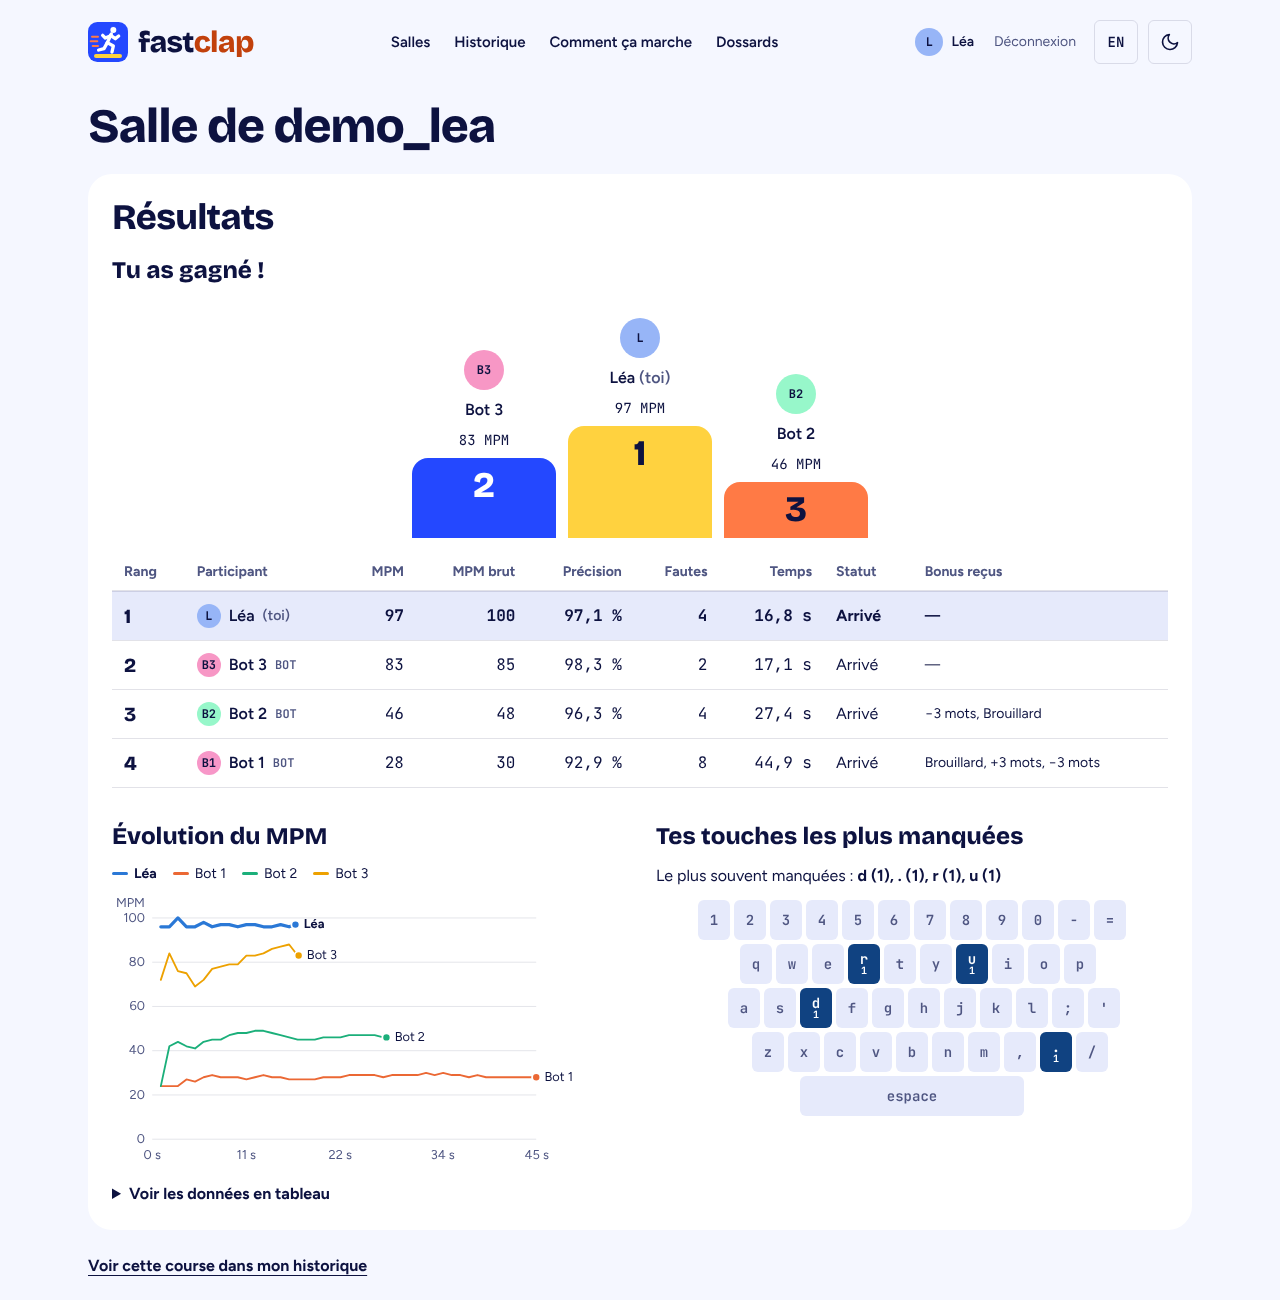
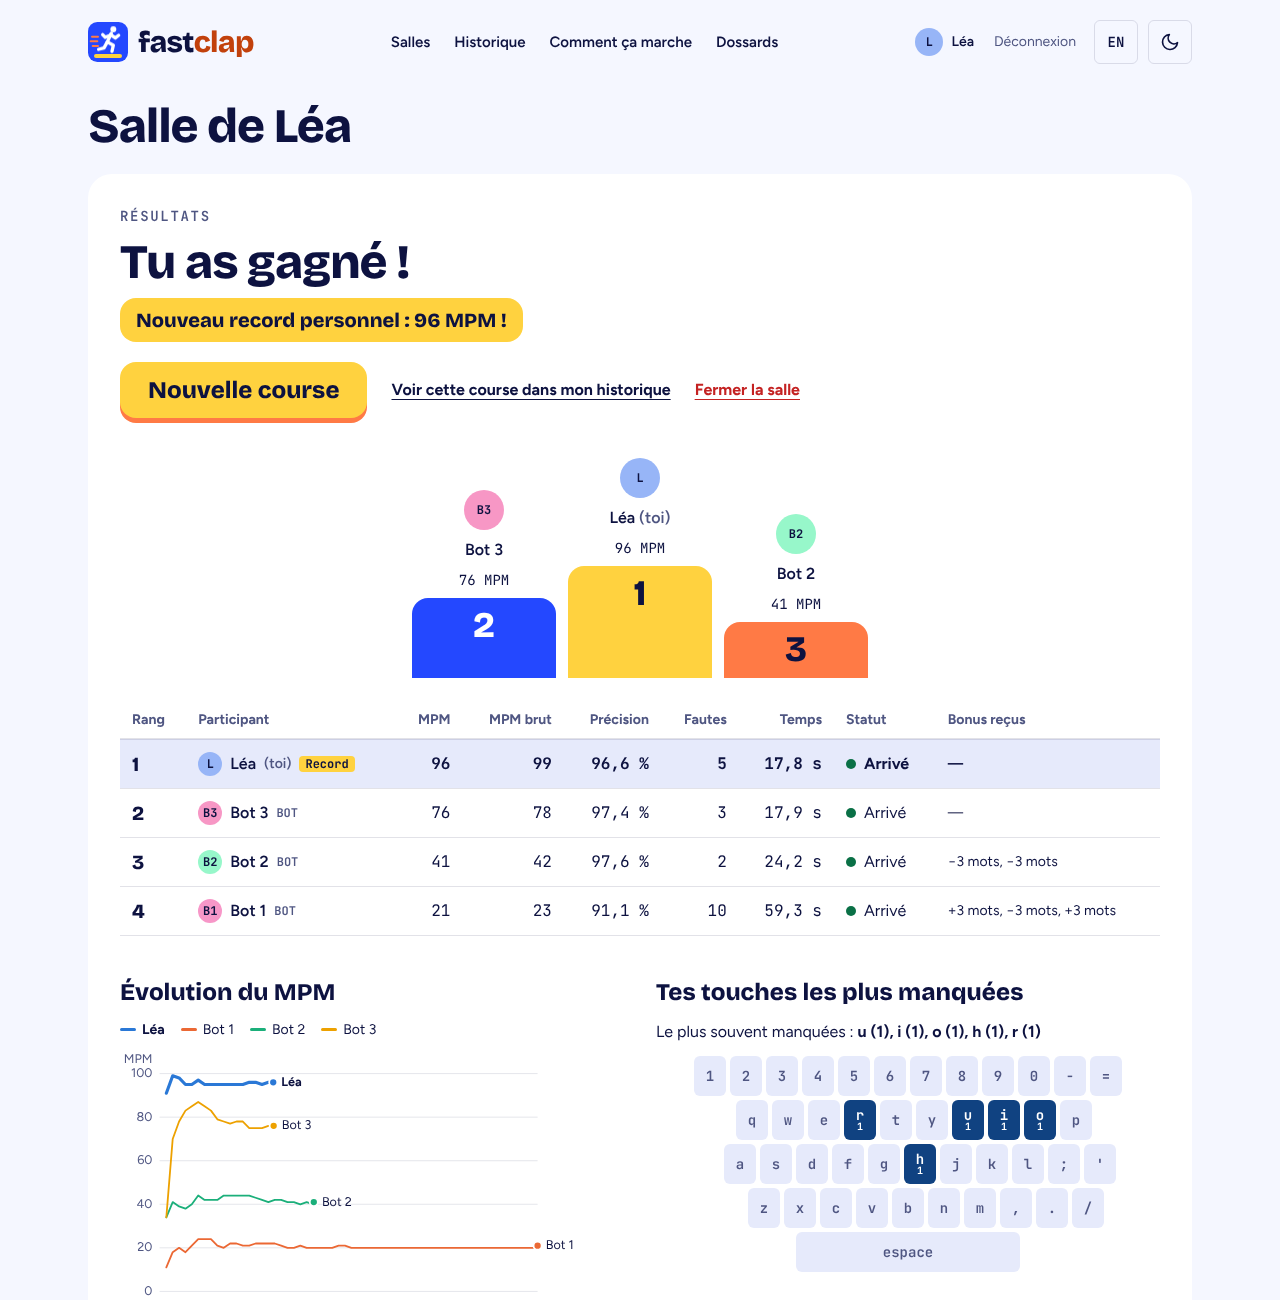
Documentation du retravail UI/UX, captures avant et après

diff --git a/docs/UI-UX.md b/docs/UI-UX.md
@@ -1,0 +1,108 @@
+# Retravail UI/UX
+
+Passe de design faite après le cours sur le design d'interface, sur cinq
+thèmes : planifier un design, structure et espacement, hiérarchie, design du
+texte, couleurs. Le nom, le logo, la palette et les typographies de la
+[démarche créative](DEMARCHE-CREATIVE.md) ne changent pas : on change la façon
+de les utiliser, pas l'identité.
+
+## 1. Planifier un design : partir de la fonction
+
+Une page se conçoit autour de ce que la personne vient y faire, et elle ne
+promet que ce que le site fait vraiment.
+
+- **Dossards honnêtes.** La section « Collectionne les dossards » annonçait
+  des récompenses (série de victoires, 10 courses sans faute) qui n'existent
+  pas dans le jeu. Les dossards penchés restent (direction artistique), mais
+  ils montrent maintenant ce que le profil garde vraiment : record, précision
+  moyenne, victoires (AUTH-06, RES-04).
+- **États vides utiles.** Un état vide dit ce qui se passe et offre l'action
+  qui le règle. « Personne sur la ligne de départ » devient un titre, une
+  phrase et un bouton « Créer une salle ». Sur « Faire une course », l'invité
+  peut maintenant entrer un code ou se connecter, au lieu d'un cul-de-sac.
+- **Unité cohérente.** La course d'exemple de l'accueil affichait « WPM » en
+  français ; elle affiche « MPM », comme le reste du site (I18N-01).
+
+| Avant                               | Après                               |
+| ----------------------------------- | ----------------------------------- |
+| ![Avant](images/ui-ux/go-avant.png) | ![Après](images/ui-ux/go-apres.png) |
+
+## 2. Hiérarchie : une action principale par écran
+
+Tout n'a pas la même importance. L'action principale est la plus visible ;
+les actions secondaires sont des liens ; les actions destructrices sont en
+retrait et demandent une confirmation.
+
+- **Résultats.** Le verdict (« Tu as gagné ! », « 3e sur 4 ») est le vrai
+  titre, en grand ; « Résultats » devient une petite étiquette. Les actions
+  sont juste à côté, sans faire défiler : « Nouvelle course » (bouton
+  principal), « Voir dans l'historique » (lien), « Fermer la salle » (lien
+  rouge, avec confirmation). Avant, elles étaient sous les graphiques.
+- **Salle d'attente.** « Lancer la course » était au milieu de la colonne de
+  droite, après les participants et les bots. Il est maintenant sous le code,
+  dans une colonne qui reste visible quand on fait défiler la configuration.
+- **Retirer un bot, expulser.** Ces boutons étaient rouges sur chaque ligne et
+  attiraient l'œil plus que les noms. Ils sont gris et deviennent rouges au
+  survol.
+
+| Avant                                      | Après                                      |
+| ------------------------------------------ | ------------------------------------------ |
+| ![Avant](images/ui-ux/resultats-avant.png) | ![Après](images/ui-ux/resultats-apres.png) |
+
+## 3. Structure et espacement : regrouper ce qui va ensemble
+
+- **Page des salles.** Le code, les filtres, la liste et la création étaient
+  empilés les uns sous les autres. La liste est le contenu principal, à
+  gauche ; « Rejoindre avec un code » et « Créer une salle » sont deux cartes
+  à droite, chacune avec son titre.
+- **Salle d'attente.** La colonne du code laissait un grand vide sous elle ;
+  elle porte maintenant le départ, et reste en place (`sticky`) pendant le
+  défilement.
+- **Moins de bordure, plus d'espace.** Les cartes gardent leurs coins arrondis
+  et leurs fonds clairs ; l'espace intérieur augmente sur grand écran
+  (`sm:p-8`) au lieu d'ajouter des traits.
+
+| Avant                                          | Après                                          |
+| ---------------------------------------------- | ---------------------------------------------- |
+| ![Avant](images/ui-ux/salles-avant.png)        | ![Après](images/ui-ux/salles-apres.png)        |
+| ![Avant](images/ui-ux/salle-attente-avant.png) | ![Après](images/ui-ux/salle-attente-apres.png) |
+
+## 4. Design du texte : une échelle, et des titres qui tiennent
+
+- **Échelle des titres.** Les titres de page suivent la même échelle :
+  `text-4xl` sur téléphone, `text-5xl` dès 640 px (la page des salles et la
+  page introuvable montent jusqu'à `text-6xl`). Avant, chaque page avait sa taille, et les
+  titres en `text-5xl` débordaient à 360 px : « Collectionne » sortait de
+  l'écran.
+- **`text-balance`** sur les titres : les lignes ont une longueur proche, sans
+  mot seul sur la dernière ligne.
+- **Longueur de ligne.** Les paragraphes restent sous 40 em environ, pour une
+  lecture confortable.
+- **Avatars.** L'initiale de l'avatar du profil était en très petit dans un
+  grand rond ; sa taille suit maintenant celle du rond.
+- **Nom affiché.** Le titre d'une salle utilise le pseudonyme d'affichage
+  (« Salle de Léa ») plutôt que le nom d'utilisateur (« Salle de demo_lea »).
+
+| Avant                                           | Après                                           |
+| ----------------------------------------------- | ----------------------------------------------- |
+| ![Avant](images/ui-ux/mobile-accueil-avant.png) | ![Après](images/ui-ux/mobile-accueil-apres.png) |
+
+## 5. Couleurs : un sens par couleur, jamais seule
+
+La palette ne change pas ; chaque couleur garde un seul rôle.
+
+| Couleur | Rôle                                                                |
+| ------- | ------------------------------------------------------------------- |
+| Jaune   | L'action principale de l'écran (un seul bouton jaune à la fois)     |
+| Bleu    | Actions secondaires pleines (« Créer une salle »), sélection, piste |
+| Vert    | Juste : lettre correcte, coureur arrivé                             |
+| Rouge   | Faute, abandon, action destructrice                                 |
+| Gris    | Texte secondaire et actions en retrait                              |
+
+- **Statuts.** Dans les résultats et l'historique, chaque statut a une
+  pastille : vert « Arrivé », jaune « Temps écoulé », rouge « Abandon ». Le
+  mot reste écrit à côté : la couleur n'est jamais seule à porter
+  l'information (A11Y-01).
+- **Contraste.** Toutes les pages repassent l'audit axe (WCAG 2.1 AA) dans les
+  deux thèmes, et le test d'affichage à 360 px (`e2e/a11y.spec.ts`,
+  `e2e/mobile.spec.ts`).

diff --git a/README.md b/README.md
@@ -18,7 +18,7 @@ manquées. Tout est gardé dans l'historique et le profil.
 | Accueil                                      | Salle d'attente et configuration                           |
 | -------------------------------------------- | ---------------------------------------------------------- |
 | ![Accueil](docs/images/captures/accueil.png) | ![Salle d'attente](docs/images/captures/salle-attente.png) |
-| **Course (bonus « brouillard » en cours)**   | **Résultats**                                              |
+| **Course en direct**                         | **Résultats**                                              |
 | ![Course](docs/images/captures/course.png)   | ![Résultats](docs/images/captures/resultats.png)           |
 | **Profil et progression**                    | **Historique (thème sombre)**                              |
 | ![Profil](docs/images/captures/profil.png)   | ![Historique](docs/images/captures/historique-sombre.png)  |
@@ -148,5 +148,6 @@ build de production avec une vraie base PostgreSQL.
 - [Exigences](docs/EXIGENCES.md) : matrice de traçabilité et choix documentés
 - [Démarche créative](docs/DEMARCHE-CREATIVE.md) : nom, logo, moodboard,
   palette, typographies
+- [Retravail UI/UX](docs/UI-UX.md) : hiérarchie, espacement, texte et couleurs, avec captures avant/après
 - [Utilisation de l'IA](docs/IA.md)
 - [Guide de déploiement](docs/DEPLOIEMENT.md)
